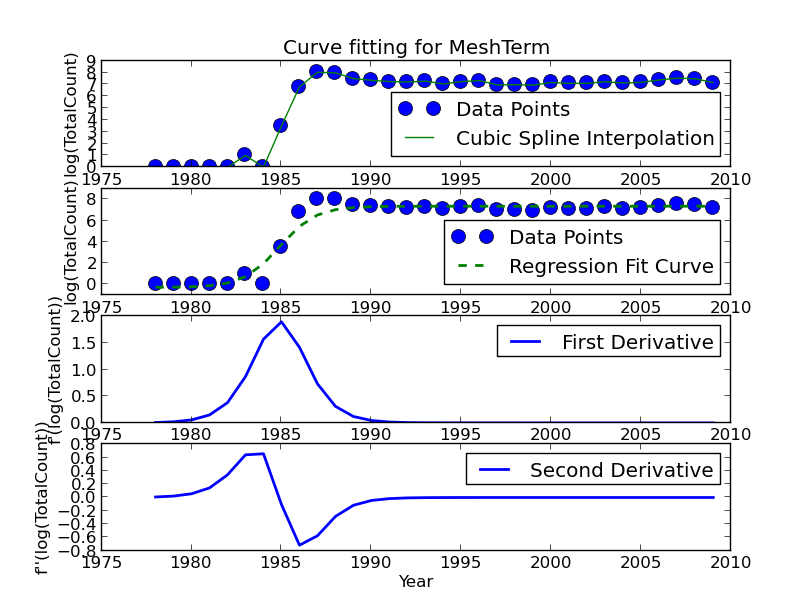
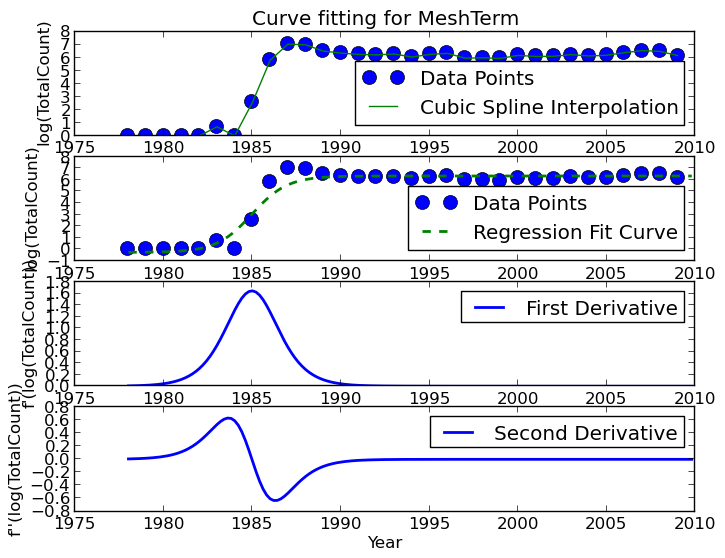
Added support for normalized data.

Changed region(s): [[0.0, 0.0, 1.0, 1.0]]

diff --git a/main.py b/main.py
@@ -1,67 +1,137 @@
 #!/usr/bin/env python
 
 import pandas as pd
+import matplotlib
+matplotlib.use('Agg') 
+
 import pylab as pl
 import numpy as np
 from scipy import interpolate, optimize
 import math
 
-filename = None
-if __name__ == "__main__":
-    import argparse
-    parser = argparse.ArgumentParser(description="Create Plots for Mesh Term\
-                                     Data")
-    parser.add_argument("-f",help="Name of file to get data from. Should\
-                        contain\
-                        2 columns only seperated by tab. Year and Count")
-    args = parser.parse_args()
-    global filename
-    filename = args.f
-    if filename == None:
-        print parser.print_help()
-        exit(-1)
-    
-df = pd.read_csv(filename,sep="\t",index_col="Year")
-column_names = ["y"]
-index_names = ["x"]
-df.index.names = index_names
+"""
+Year wise cumulative count of
+pubmed ids
+"""
 
-df.columns = column_names
-df.y = df.y.apply(lambda y: math.log(y)+1)
-min_year = df.index[0] - 5
-max_year = df.index[-1] -1
-x = range(min_year,max_year)
-x1 = range(0,max_year-min_year)
-y = [0 if i not in df.y else df.y[i] for i in x]
+def normalizeAndLogCount(k):
+    global tyd
+    normalizeF =  1.0*(tyd[tyd.year == k["x"]].TotalPMID.values[0])
+    k["y"] = 1.0*k["y"]/normalizeF
+    k["y"] = math.log(k["y"] + 1)
+    return k
 
-print x,x1,y
+def prepareData(df):
+    if normalized:
+        print "Using Normalized routine"
+        tyd = pd.read_csv("PMID_PER_YEAR.tsv", sep="\t")
+        tyd = tyd[(tyd.year > 1901) & (tyd.year <= 2011)] 
+        df = df.apply(normalizeAndLogCount, axis=1)
+        df[["x"]] = df[["x"]].astype(int)
+    else:
+        df.y = df.y.apply(lambda y: math.log(y+1))
 
-s = interpolate.PchipInterpolator(x1,y)
-r = s(x1)
+    print df
 
-def func(x,a,b,c,d):
-    return a+ (b/(1+np.exp(-(c+d*x))))
+    min_year = df.x.min() - 5
+    max_year = df.x.max() -1
+    x = range(min_year,max_year)
+    x1 = range(0,max_year-min_year)
+    y = []
+    for i in x:
+        if i not in df.x.values:
+            y.append(0)
+        else:
+            y.append(df[df.x == i].y.values[0])
 
-popt,pcov = optimize.curve_fit(func,x1,y)
+    #y = [0 if i not in df.x else df[df.x == i].y for i in x]
+
+    print x,x1,y
+    return x,x1,y
+
+def getData(filename, normalized):
+    global tyd
+    column_names = ["x","y"]
+    df = pd.read_csv(filename,sep="\t", dtype = {'Year':int, 'TotalPMID':float})
+    df.columns = column_names
+    return prepareData(df)
+
+
+def func(x, a, b, c, d):
+    return a+ (b/(1.0+np.exp(-(c+d*x))))
+
 # First derivative
-def f_der1(x):
+def f_der1(x, popt):
     b,c,d = popt[1:]
     e = 2+ np.exp(-(c+d*x)) + np.exp(c+d*x)
     return b*d/e
 
 # Second derivative
-def f_der2(x):
+def f_der2(x, popt):
     b,c,d = popt[1:]
     t1 = b*d/np.power((2+ np.exp(-(c+d*x)) + np.exp(c+d*x)),2)
     t2 = (d*np.exp(-(c+d*x)) - d*np.exp(c+d*x))
     return t1*t2
 
+def plot(x,y,x2,r,y2,y3,y4, saveFigure=False, filename="None"):
+    print x,y,x2,r,y2,y3,y4
+    title  = "Curve fitting for MeshTerm"
+    if normalized:
+        title += " [Normalized]"
+        filename += "_Normalized"
+    pl.subplot(4,1,1)
+    pl.plot(x,y,"o",markersize=10,label="Data Points")
+    pl.plot(x,r,"-",label="Cubic Spline Interpolation")
+    pl.legend(loc="best")
+    pl.title(title)
+    pl.xlabel("Year")
+    pl.ylabel("log(TotalCount)")
+
+    pl.subplot(4,1,2)
+    pl.plot(x,y,"o",markersize=10,label="Data Points")
+    pl.plot(x2,y2,"--",linewidth=2,label="Regression Fit Curve")
+    pl.legend(loc="best")
+    pl.xlabel("Year")
+    pl.ylabel("log(TotalCount)")
+
+    pl.subplot(4,1,3)
+    pl.plot(x2,y3,"-",linewidth=2,label="First Derivative")
+    pl.legend(loc="best")
+    pl.xlabel("Year")
+    pl.ylabel("f'(log(TotalCount))")
+
+    pl.subplot(4,1,4)
+    pl.plot(x2,y4,"-",linewidth=2,label="Second Derivative")
+    pl.legend(loc="best")
+    pl.xlabel("Year")
+    pl.ylabel("f''(log(TotalCount))")
+    if saveFigure:
+        filename = filename + ".png"
+        pl.savefig(filename, bbox_inches = "tight")
+        print "Figure saved as: %s" % filename
+    else:
+        pl.show()
+
+def main(filename, normalized=False, saveFigure=False):
+    x,x1,y = getData(filename, normalized)
+    #Interpolate using spline
+    s = interpolate.PchipInterpolator(x,y)
+    r = s(x)
+    
+    #Fit curve to logistic regression and get coefficients
+    popt,pcov = optimize.curve_fit(func,x1,y)
+    print "Coefficients: %s" % popt
+    x2 = np.arange(min(x1),max(x1)+1, 0.2)
+    y2 = [func(i,popt[0],popt[1],popt[2],popt[3]) for i in x2]
+    y3 = [f_der1(i,popt) for i in x2]
+    y4 = [f_der2(i,popt) for i in x2]
+    x2 = [min(x)+k for k in x2]
+    filename = filename.split('.')[0]
+    plot(x,y,x2,r,y2,y3,y4, saveFigure = saveFigure, filename = filename)
 
 
 
-y2 = [func(i,popt[0],popt[1],popt[2],popt[3]) for i in x1]
-y3 = [f_der1(i) for i in x1]
-y4 = [f_der2(i) for i in x1]
+
 
 """
 yp = []
@@ -70,32 +140,27 @@ for i in range(3,8):
     f = np.poly1d(z)
     pl.plot(x,f(x1),"-",linewidth=2,label="{0}-D Poly Fit curve".format(i))
 """
-pl.subplot(4,1,1)
-pl.plot(x,y,"o",markersize=10,label="Data Points")
-pl.plot(x,r,"-",label="Cubic Spline Interpolation")
-pl.legend(loc="best")
-pl.title("Curve fitting for MeshTerm")
-pl.xlabel("Year")
-pl.ylabel("log(TotalCount)")
 
-pl.subplot(4,1,2)
-pl.plot(x,y,"o",markersize=10,label="Data Points")
-pl.plot(x,y2,"--",linewidth=2,label="Regression Fit Curve")
-pl.legend(loc="best")
-pl.xlabel("Year")
-pl.ylabel("log(TotalCount)")
-
-pl.subplot(4,1,3)
-pl.plot(x,y3,"-",linewidth=2,label="First Derivative")
-pl.legend(loc="best")
-pl.xlabel("Year")
-pl.ylabel("f'(log(TotalCount))")
-
-pl.subplot(4,1,4)
-pl.plot(x,y4,"-",linewidth=2,label="Second Derivative")
-pl.legend(loc="best")
-pl.xlabel("Year")
-pl.ylabel("f''(log(TotalCount))")
-
-pl.show()
+if __name__ == "__main__":
+    import argparse
+    parser = argparse.ArgumentParser(description="Create Plots for Mesh Term\
+                                     Data")
+    parser.add_argument("-f",help="Name of file to get data from. Should\
+                        contain\
+                        2 columns only seperated by tab. Year and Count")
+    parser.add_argument("-n", type=bool, help="Normalize counts. Set to activate")
+    parser.add_argument("-s", type=bool, help="Save figure and not show. Set to activate")
+    args = parser.parse_args()
+    filename = args.f
+    normalized = args.n
+    saveFigure  = args.s
+    print "Normalized:", normalized
+    if filename == None:
+        print parser.print_help()
+        exit(-1)
+    if normalized == None:
+        normalized == False
+    if saveFigure == None:
+        saveFigure == False
+    main(filename, normalized, saveFigure)
 

diff --git a/README.md b/README.md
@@ -15,3 +15,5 @@ Output
 ------
 ![Plots](https://raw.github.com/napsternxg/meshterm-curve-fitting/master/HIV.png)
 
+![Plots](https://raw.github.com/napsternxg/meshterm-curve-fitting/master/HIV_Normalized.png)
+
